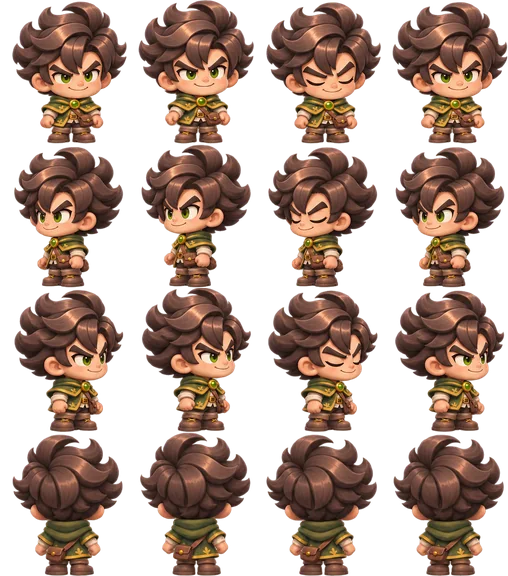
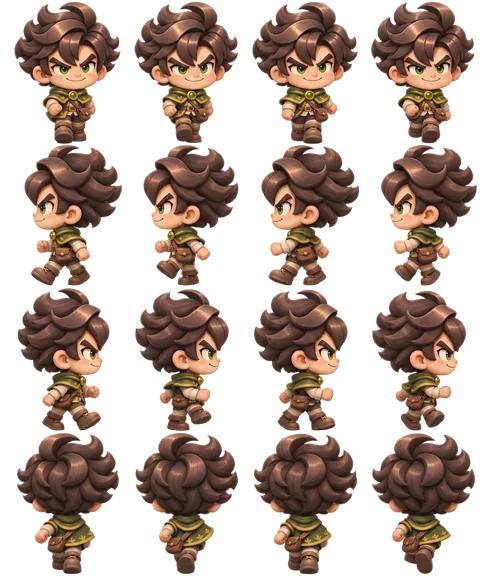
Grewn: caminhada sem ferramenta (hood-v02-01) vira a folha-base
Claude-Session: https://claude.ai/code/session_01KGdgomm438trDHTLPLqJmv

diff --git a/src/render/character.ts b/src/render/character.ts
@@ -151,8 +151,8 @@ const SPECS: Record<ActorKind, SheetSpec> = {
   'mila-axe-attack': { cols: 4, rows: 4, height: CHARACTER_H * (308 / 297), shadow: [0.32, 0.12], walkFps: 0, action: true },
   'mila-hoe-attack': { cols: 4, rows: 4, height: CHARACTER_H * (307 / 297), shadow: [0.32, 0.12], walkFps: 0, action: true },
   'mila-pickaxe-attack': { cols: 4, rows: 4, height: CHARACTER_H * (333 / 297), shadow: [0.32, 0.12], walkFps: 0, action: true },
-  // Grewn (v0.93.80, teste do estilo chibi de cabeça grande; assets-src/grewn): a folha-base é a de repouso (sem caminhada sem ferramenta: `walkFps: 0`), 5 caminhadas com ferramenta, 5 golpes e sentar; cada folha foi gerada preenchendo a célula, então a escala varia (cabeça de 250 a 296 px numa célula de 384): a altura do quadro é `270 / largura da cabeça` da folha (largura medida em px da prancha original), para a cabeça ter o mesmo tamanho em toda ação.
-  'grewn': { cols: 4, rows: 4, height: CHARACTER_H * (270 / 296), shadow: [0.32, 0.12], walkFps: 0 },
+  // Grewn (v0.93.80, teste do estilo chibi de cabeça grande; assets-src/grewn): a folha-base é a caminhada sem ferramenta (`hood-v02-01`), mais 5 caminhadas com ferramenta, 5 golpes e sentar; cada folha foi gerada preenchendo a célula, então a escala varia (cabeça de 250 a 296 px numa célula de 384): a altura do quadro é `270 / largura da cabeça` da folha (largura medida em px da prancha original), para a cabeça ter o mesmo tamanho em toda ação.
+  'grewn': { cols: 4, rows: 4, height: CHARACTER_H * (270 / 262), shadow: [0.32, 0.12], walkFps: 7 },
   'grewn-sit': { cols: 4, rows: 4, height: CHARACTER_H * (270 / 275), shadow: [0.32, 0.12], walkFps: 0, sequence: true },
   'grewn-sword': { cols: 4, rows: 4, height: CHARACTER_H * (270 / 252), shadow: [0.32, 0.12], walkFps: 7 },
   'grewn-axe': { cols: 4, rows: 4, height: CHARACTER_H * (270 / 272), shadow: [0.32, 0.12], walkFps: 7 },

diff --git a/docs/NEXT_STEPS.md b/docs/NEXT_STEPS.md
@@ -22,7 +22,7 @@ Fases 1 (desbloqueio) e 2 (hotbar em linhas, controles por `--hotbar-h`, convers
 - **F6 feita (v0.93.58):** salvamento v16 (`sub`), protocolo 21, `RoomSnapshot` v5 e servidor sincronizado; migração em `world/subdiv.ts`. **F7 feita no jogo (v0.93.59): `DEFAULT_SUBDIV = 2`; paredes/porta empilhadas na grade fina.** **Falta para ir ao ar:** PR do servidor (`build:net` + `sync-net`) e implantação conjunta jogo+servidor **só com aval do dono do produto**; conferir o peso do arquivo salvo (~4×), a margem de chunks dos prédios grandes (castelo), save/online reais na grade 2, o 2D de reserva (M7), porta de parede animada e casas/cidade com paredes.
 - **Capivara e lobos (v0.93.61):** dar à capivara um alimento e a arte de filhote (reprodução como vaca/galinha) e usar as folhas de comer/dormir; lobos sem pose de morte própria no espelho da sala (usam a folha de morte de `monsterDeaths`).
 - **Bandos (v0.93.60):** conferir o ritmo do jogo com ~340 acampamentos e ~130 bandos de lagarto (ajustar `PACK_REGION`/`PACK_SPAWN_RADIUS` em `world/goblins.ts`/`game/entities.ts`); nome/diálogo e espólio extra do lagarto (hoje só 2 moedas); bando de lagarto que a sala simula não persiste (volta completo ao reaproximar-se); homem-lagarto só no Mundo principal.
-- **Grewn (v0.93.80–81):** pedir a caminhada sem ferramenta, a folha `01` que não veio (hoje a base é o repouso e fica travada); pedir folhas na mesma escala (hoje a escala é corrigida por `270 / cabeça` em `SPECS`), avaliar o golpe de espada em 8 quadros, conferir a altura em relação aos outros personagens e decidir se o estilo vira padrão.
+- **Grewn (v0.93.80–81):** usar a folha de repouso (`grewn-idle-sheet.png`) quando o jogo tiver animação de ficar parado; pedir folhas na mesma escala (hoje a escala é corrigida por `270 / cabeça` em `SPECS`), avaliar o golpe de espada em 8 quadros, conferir a altura em relação aos outros personagens e decidir se o estilo vira padrão.
 - **Grama (v0.93.79):** sem franja entre o topo verde e a face de terra; se quiser a franja de volta, pedir uma faixa de relva com alfa (≤ 32 px) e, nas pilhas parciais, fatiar a frente a partir do topo da coluna (hoje só o 4º nível mostraria a franja).
 - **Arte dos blocos (v0.93.77):** pedir ao artista versões repetíveis (sem emenda) das 5 planificações e uma franja própria da Terra Arada; refazer ícones de Tijolo, Chão e Pedra Polida no mesmo estilo; conferir o 3D da Grama (a franja ocupa ~44% da frente esticada).
 - **Blocos de 1/4 (ADR 0033, v0.93.76):** arte própria da face de 4 px por material, borda/sombra entre blocos parciais, 2D de reserva fiel (pilhas parciais) ou aposentar o 2D, balanceamento (4 golpes por célula, muralha/montanhas de 1 célula, monstros não sobem a pilha de 4), usar `cubeLevels` em novas constantes de altura. **Servidor:** implantar com o jogo (`PROTOCOL_VERSION` 24, snapshot v6; a sala converte o arquivo antigo ao abrir).

diff --git a/docs/CHANGELOG.md b/docs/CHANGELOG.md
@@ -3,7 +3,7 @@
 ## Orvalis v0.93.81 — Grewn: mesma escala em todas as ações (14/11/2026)
 - **Defeito:** o Grewn aparecia em tamanhos diferentes conforme a ação. As 12 folhas foram geradas preenchendo a célula de 384 px, então a escala do personagem varia entre elas (cabeça de 250 a 296 px) e a altura pelo desenho (v0.93.80) não corrigia isso.
 - **Correção** (`render/character.ts`): a altura do quadro de cada folha é `270 / largura da cabeça` medida na prancha original (média das fileiras de frente e de costas), para a cabeça ter o mesmo tamanho em toda ação. Conferido no navegador (caminhadas com as 5 ferramentas).
-- **Pendente:** a caminhada sem ferramenta continua travada porque falta a folha `hood-v02-01` (a numeração enviada começa em 02; a base é a de repouso, `walkFps: 0`). Só cliente.
+- **Caminhada sem ferramenta** (`hood-v02-01-caminhada`, enviada depois): vira a folha-base `grewn` (`--rows-map 0,3,1,2`, cabeça 262 px) e anda de verdade (`walkFps: 7`); a de repouso (`grewn-idle-sheet.png`) fica guardada em `assets-src/grewn` sem uso. Só cliente.
 ## Orvalis v0.93.80 — Grewn, personagem de teste do novo estilo chibi (14/11/2026)
 - **Pedido do dono do produto:** novo personagem **Grewn** (cabeça maior, corpo menor) para testar um estilo chibi novo. Entra como **sétimo personagem pronto**, escolhido na tela de entrada (ou `?personagem=grewn`).
 - **Arte** (`assets-src/grewn`, 12 folhas 4 × 4 de 1536 px; `src/assets/grewn*.webp`): repouso, sentar, 5 caminhadas com ferramenta e 5 golpes. Fileiras vêm em frente, direita, costas, esquerda (`--rows-map 0,3,1,2` em todas); `--alpha --largest` tirou o ruído vermelho das bordas. **Não veio a caminhada sem ferramenta:** a folha-base é a de repouso (`walkFps: 0`, sem pernas andando); o golpe de espada usa os 4 quadros padrão.

diff --git a/docs/domains/player.md b/docs/domains/player.md
@@ -9,7 +9,7 @@
   cidade ao alcance senta (`Player.sitOn`: anda até o assento, vira de frente e senta no lugar, com os pés na célula da frente e o corpo sobre ele — `SEAT_FEET`, v0.79.2 — folha
   `gino-sit` em sequência: 0–3 sentando, parado no quadro 3, 3→0 levantando; v0.79.1). Mexer o controle ou tocar de
   novo levanta (`standUp`) e ele anda de volta para onde estava; levar dano levanta na hora. Na sala, os outros veem (`PlayerState.sit` = quadro; protocolo 18).
-- **Grewn** (v0.93.80, teste do estilo chibi de cabeça grande): sétimo personagem pronto (repouso como base, 5 caminhadas com ferramenta, 5 golpes e sentar; `assets-src/grewn`); entra em `APPEARANCE_BODIES` (protocolo 25), `HERO_NAMES`, `SIT_BODIES`, `SPECS` e `art/principal.ts`.
+- **Grewn** (v0.93.80, teste do estilo chibi de cabeça grande): sétimo personagem pronto (caminhada como base, 5 caminhadas com ferramenta, 5 golpes e sentar; `assets-src/grewn`); entra em `APPEARANCE_BODIES` (protocolo 25), `HERO_NAMES`, `SIT_BODIES`, `SPECS` e `art/principal.ts`.
 - **Mila** (v0.91.0): sexto personagem pronto (caminhada, 5 caminhadas com ferramenta, 5 golpes e sentar; `assets-src/mila`); entra só em `APPEARANCE_BODIES` (protocolo 19), `HERO_NAMES`, `SIT_BODIES`, `SPECS` e `art/principal.ts` — nada mais.
 - **Gino** (v0.77.0): quinto personagem pronto (caminhada, caminhada com as 5 ferramentas, 5 golpes). A lista de
   personagens prontos é uma só: `APPEARANCE_BODIES` (`net/protocol.ts`) = `HERO_BODIES`; nomes em `HERO_NAMES`.
